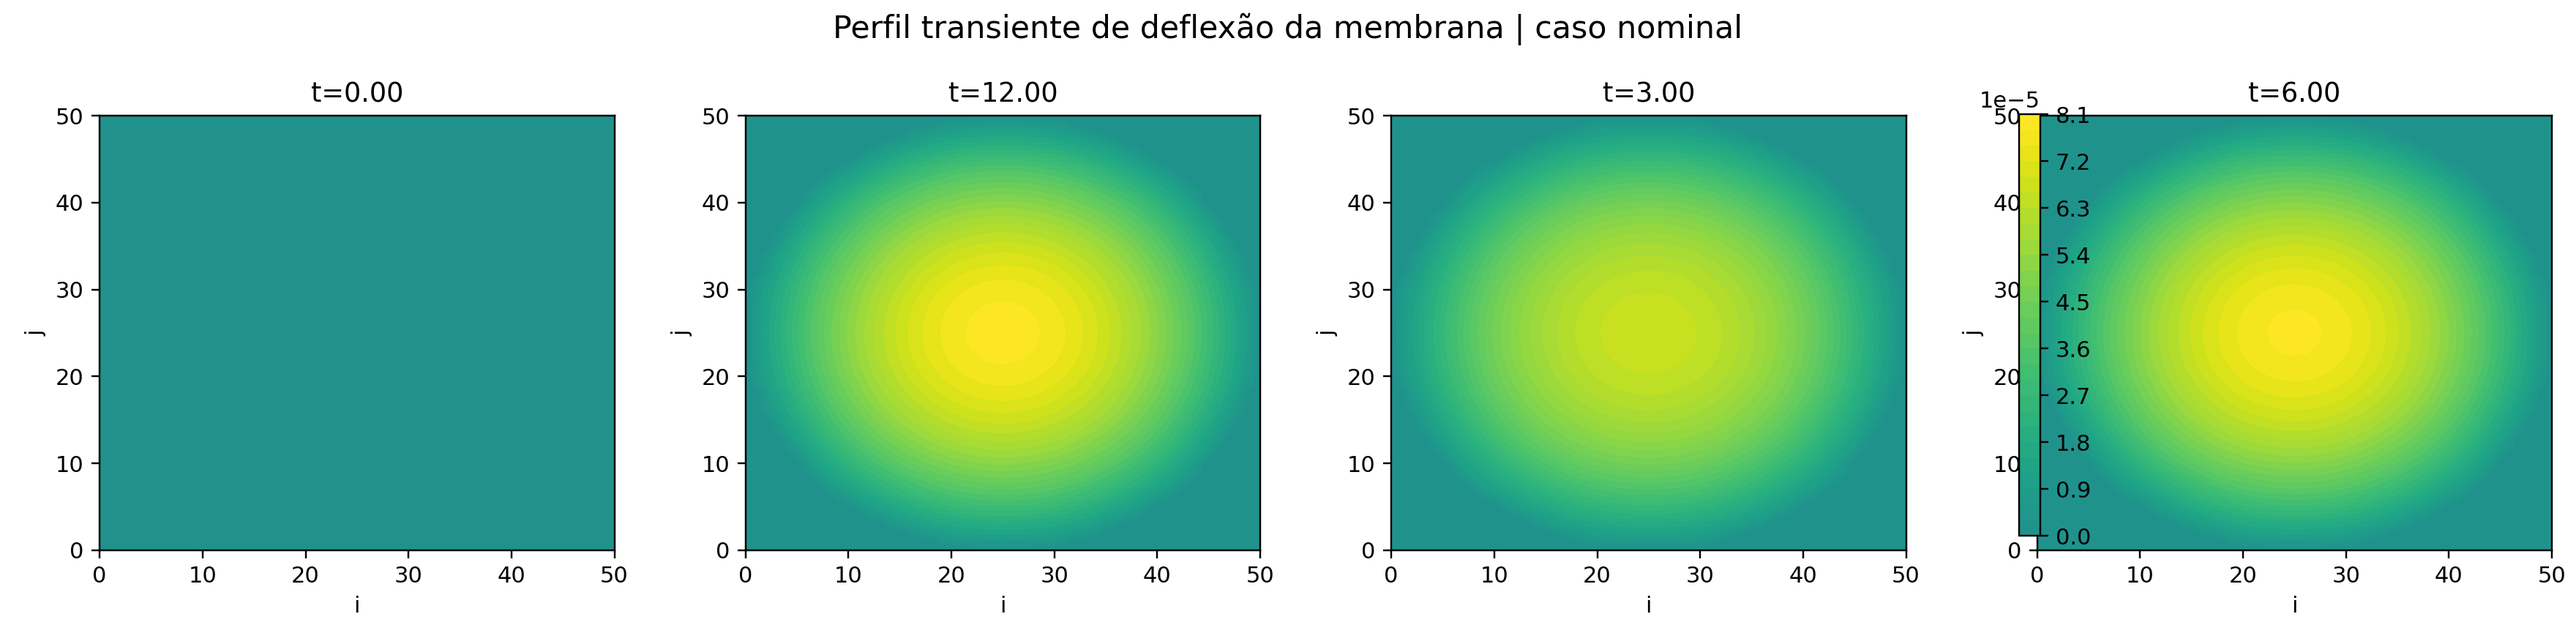
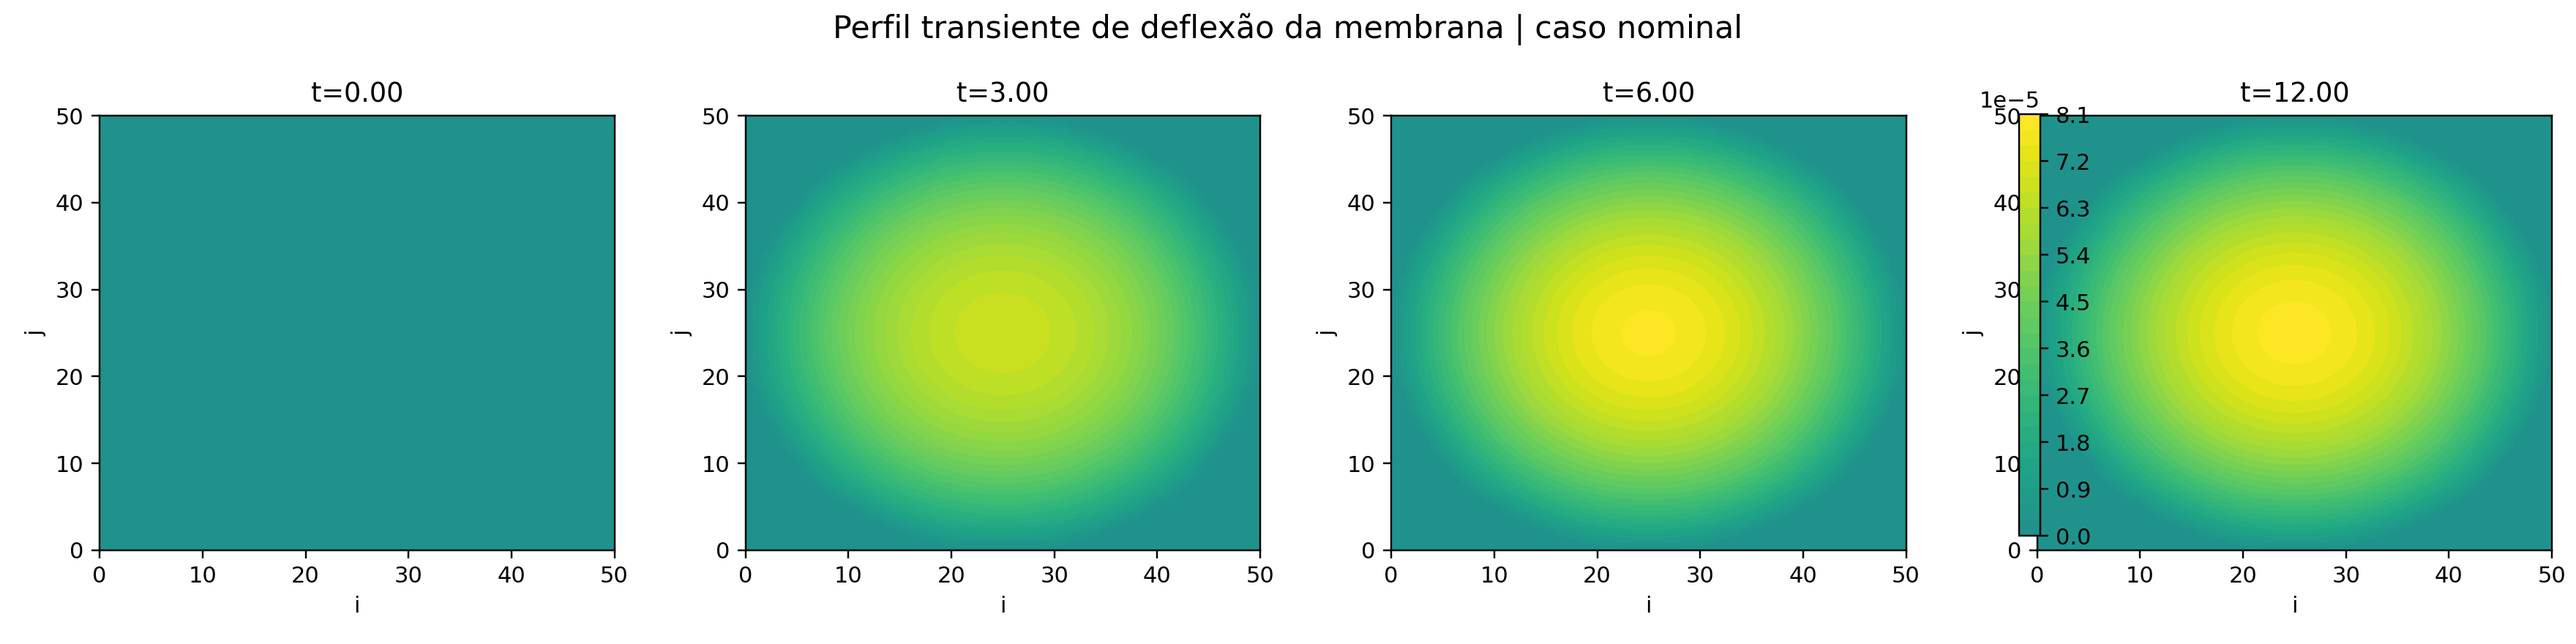
ajustes finais ex2 cap5

diff --git a/ex2_cap5_pos_processar.py b/ex2_cap5_pos_processar.py
@@ -12,7 +12,7 @@ import matplotlib.pyplot as plt
 # Lê resultados_ex2_cap5_raw e gera arquivos finais em resultados_ex2_cap5_apresentacao
 # ==============================================================================
 
-RAW_DIR = Path("resultados_ex2_cap5_raw")
+RAW_DIR = Path("resultados_ex2_cap5_pre_processado")
 OUT_DIR = Path("resultados_ex2_cap5_apresentacao")
 LIMPAR_SAIDA_ANTIGA = True
 
@@ -21,12 +21,28 @@ if LIMPAR_SAIDA_ANTIGA and OUT_DIR.exists():
 
 OUT_DIR.mkdir(exist_ok=True)
 
-TABELA_RAW = RAW_DIR / "tabela_raw_ex2_cap5.csv"
+# Aceita nomes diferentes para a tabela bruta, caso você tenha gerado com outro nome.
+possiveis_tabelas = [
+    RAW_DIR / "tabela_raw_ex2_cap5.csv",
+    RAW_DIR / "tabela_completa_ex2_cap5.csv",
+    RAW_DIR / "tabela_final_ex2_cap5.csv",
+]
 
-if not TABELA_RAW.exists():
+TABELA_RAW = None
+
+for arq in possiveis_tabelas:
+    if arq.exists():
+        TABELA_RAW = arq
+        break
+
+if TABELA_RAW is None:
     raise FileNotFoundError(
-        f"Não encontrei {TABELA_RAW}. Rode primeiro: python ex2_cap5_rodar_tudo.py"
+        f"Não encontrei nenhuma tabela válida em {RAW_DIR}. "
+        "Procure se existe algum arquivo .csv de tabela nessa pasta."
     )
+
+print("Usando tabela bruta:")
+print(TABELA_RAW)
 
 
 # ==============================================================================
@@ -106,7 +122,7 @@ variaveis = [
     ("q_outlet_m3s", "Vazão no outlet [m³/s]"),
     ("w_centro_m", "Deslocamento central [m]"),
     ("volume_acumulado_m3", "Volume acumulado [m³]"),
-    ("potencia_W", "Potência consumida [W]"),
+    ("potencia_W", "Potência hidráulica assinada [W]"),
 ]
 
 fig, axs = plt.subplots(3, 2, figsize=(13, 12))
@@ -225,7 +241,7 @@ metricas_pressao = [
     ("w_centro_max_m", "Deslocamento central máximo [m]"),
     ("p_outlet_max_Pa", "Pressão máxima no outlet [Pa]"),
     ("q_outlet_max_abs_m3s", "Vazão máxima no outlet [m³/s]"),
-    ("potencia_max_abs_W", "Potência máxima [W]"),
+    ("potencia_max_abs_W", "Potência máxima absoluta [W]"),
 ]
 
 fig, axs = plt.subplots(2, 2, figsize=(12, 9))
@@ -267,7 +283,7 @@ metricas_largura = [
     ("w_centro_max_m", "Deslocamento central máximo [m]"),
     ("p_outlet_max_Pa", "Pressão máxima no outlet [Pa]"),
     ("q_outlet_max_abs_m3s", "Vazão máxima no outlet [m³/s]"),
-    ("potencia_max_abs_W", "Potência máxima [W]"),
+    ("potencia_max_abs_W", "Potência máxima absoluta [W]"),
 ]
 
 fig, axs = plt.subplots(2, 2, figsize=(12, 9))
@@ -297,15 +313,26 @@ salvar_fig("05_sensibilidade_largura.png")
 # ==============================================================================
 
 SNAP_DIR = RAW_DIR / "snapshots_nominal"
-snapshots = sorted(SNAP_DIR.glob("w_t*.csv"))
+
+
+def extrai_tempo_snapshot(arq):
+    # Exemplo: w_t3.00.csv -> 3.00
+    return float(arq.stem.replace("w_t", ""))
+
+
+snapshots = sorted(
+    SNAP_DIR.glob("w_t*.csv"),
+    key=extrai_tempo_snapshot
+)
 
 if snapshots:
     campos = []
     nomes = []
 
     for arq in snapshots:
+        tempo = extrai_tempo_snapshot(arq)
         campos.append(np.loadtxt(arq, delimiter=","))
-        nomes.append(arq.stem.replace("w_t", "t="))
+        nomes.append(f"t={tempo:.2f}")
 
     n = len(campos)
 
@@ -351,7 +378,7 @@ Tabela única com todos os casos simulados.
 2) 01_evolucao_temporal_comparacao_malhas.png
 Mostra a evolução temporal das grandezas pedidas no enunciado:
 deflexão máxima, pressão no outlet, vazão no outlet, deslocamento central,
-volume acumulado e potência consumida.
+volume acumulado e potência hidráulica assinada.
 
 3) 02_convergencia_dt_malha.png
 Mostra a influência do passo de tempo e da malha.
@@ -361,18 +388,15 @@ Compara diretamente as malhas 51x51 e 101x101 usando o menor dt.
 
 5) 04_sensibilidade_pressao.png
 Mostra o efeito da pressão de entrada.
+A potência mostrada nesse gráfico é a potência máxima absoluta.
 
 6) 05_sensibilidade_largura.png
 Mostra o efeito da largura dos canais.
+A potência mostrada nesse gráfico é a potência máxima absoluta.
 
 7) 06_perfil_transiente_deflexao_membrana.png
-Mostra o perfil espacial da deflexão da membrana no caso nominal.
+Mostra o perfil espacial da deflexão da membrana no caso nominal, em ordem temporal.
 
-Como apresentar:
-- Explique que no Capítulo 5 há acoplamento forte: a pressão no outlet força a membrana,
-  e a velocidade da membrana define a vazão de enchimento do reservatório.
-- Use a tabela final como evidência de que todos os casos foram rodados.
-- Use os gráficos para apresentar apenas os resultados relevantes, sem jogar todos os históricos no relatório.
 """
 
 with open(OUT_DIR / "LEIA_ME_APRESENTACAO.txt", "w", encoding="utf-8") as f:
